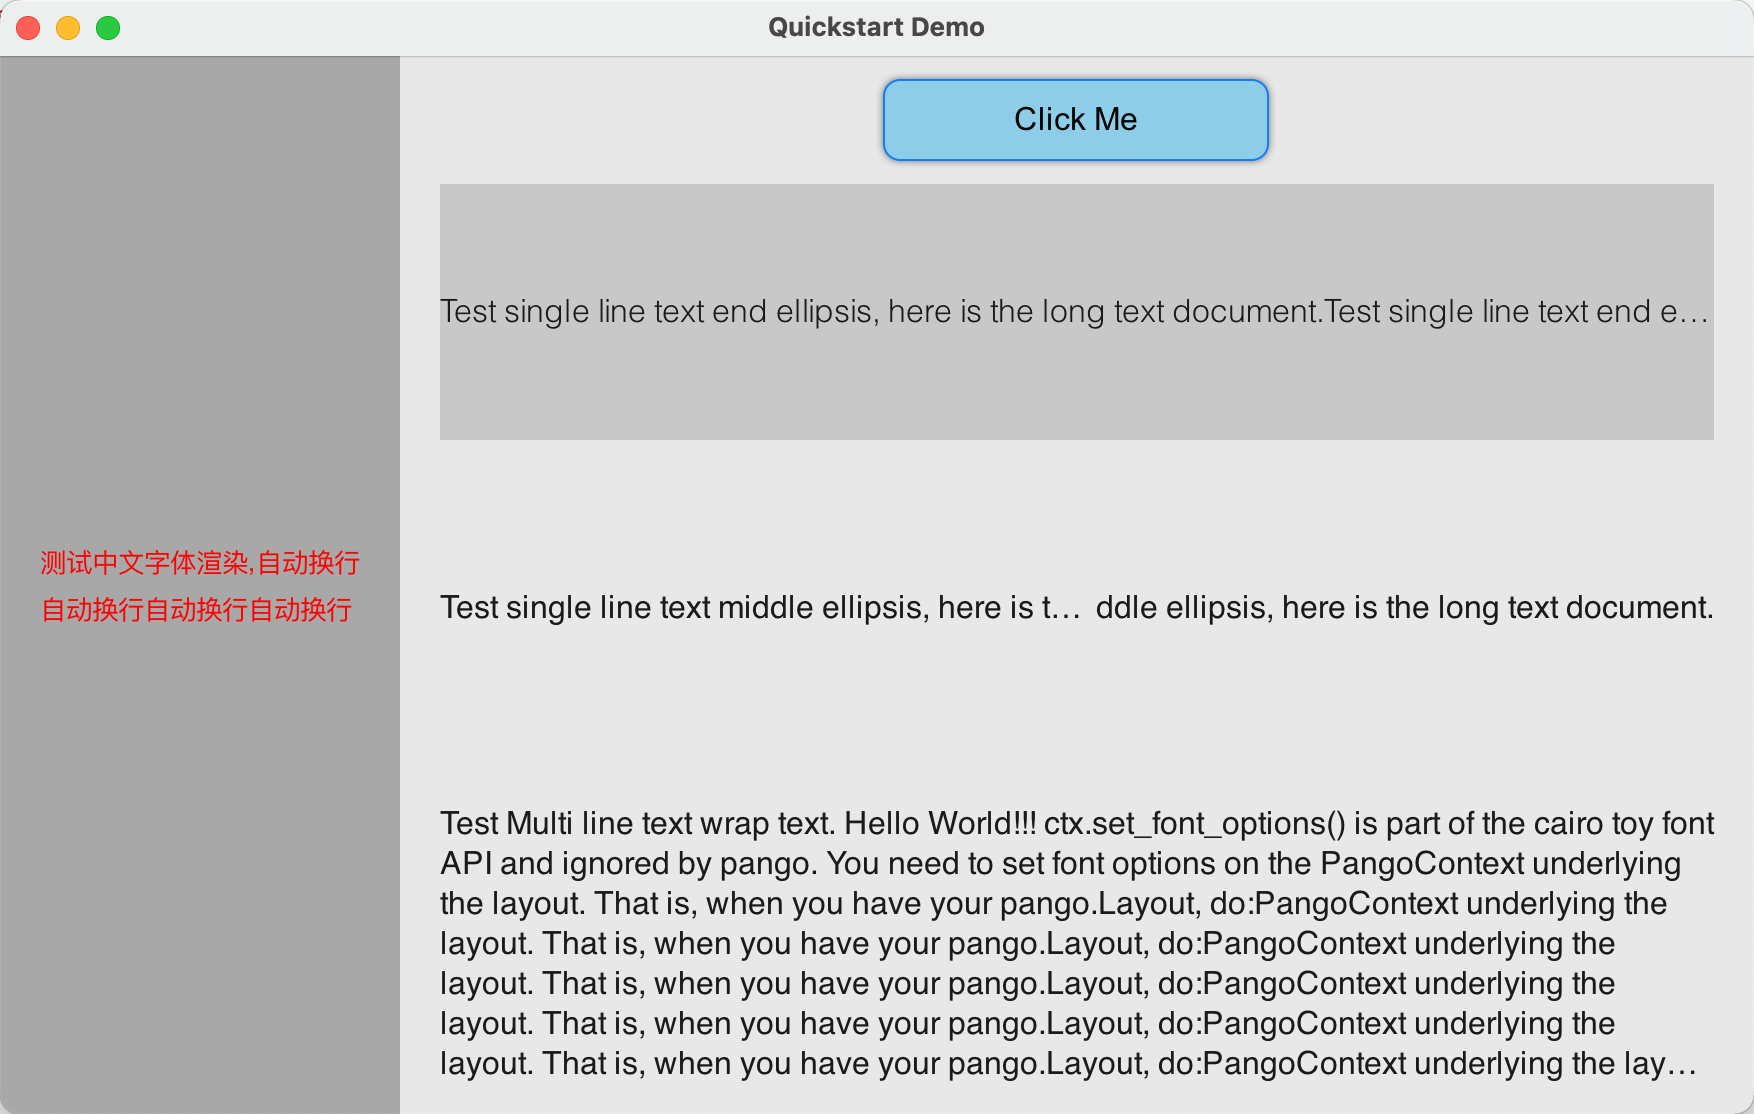
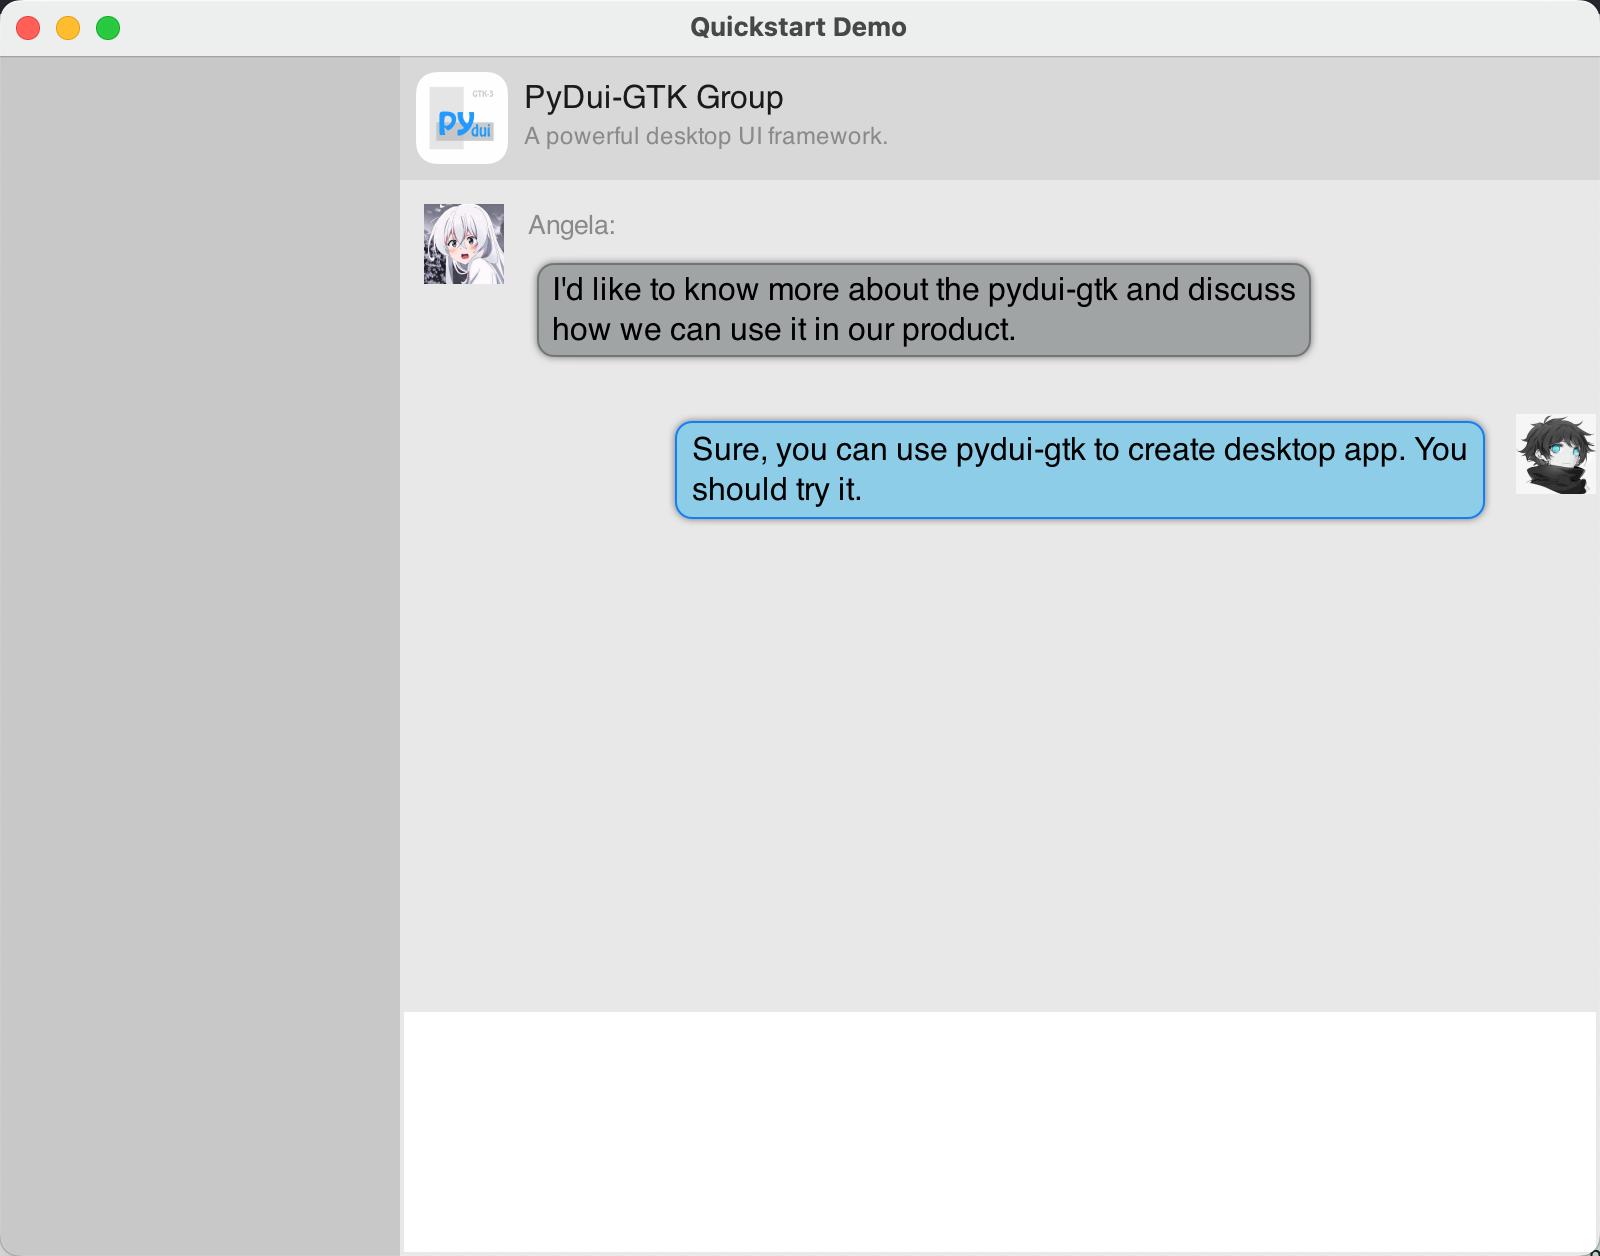
Update demo screenshot

diff --git a/README.md b/README.md
@@ -69,13 +69,11 @@ def get_builder() -> PyDuiBuilder:
 class DemoHandler(PyDuiWindowHandler):
     def on_window_init(self, window: PyDuiWindow):
         print(f"on_window_init")
-        
-        def handle_click(object):
-            print("You clicked!", object)
-            
+        #def handle_click(object):
+        #    print("You clicked!", object)   
         # bind widget event here
-        widget = window.get_widget(widget_id="button")
-        widget.connect("clicked", handle_click)
+        #widget = window.get_widget(widget_id="button")
+        #widget.connect("clicked", handle_click)
 
     def on_window_destroy(self):
         print(f"on_window_destroy")
@@ -98,42 +96,52 @@ XML File
 
 ```xml
 <?xml version="1.0" encoding="utf-8"?>
-<Window size="800,600" title='Quickstart Demo' min_size="400,300">
-    <HLayout bkcolor="#FFE8E8E8">
-        <VLayout bkcolor="#FFA8A8A8" width="200">
-            <Label text="测试中文字体渲染,自动换行自动换行自动换行自动换行" font="Helvetica" fontsize="13" fontcolor="#FFFF0000"
-                margin="20,20,20,20" />
+<Window size="800,600" title='Quickstart Demo' min_size="400,300"
+    default_font="Helvetica" default_fontsize="16">
+    <HLayout bkcolor="#FFFFFFFF">
+        <!-- left panel -->
+        <VLayout bkcolor="#FFC8C8C8" width="200">
         </VLayout>
         <VLayout halign="CENTER">
-            <Button id="button" text="Click Me" margin="8,8,8,8"
-                corner="12,12,12,12" width="200" height="48"
-                bkimage="res/images/common_button_normal.png"
-                bkimage_hover="res/images/common_button_hover.png"
-                bkimage_press="res/images/common_button_press.png"
-                bkimage_disable="res/images/common_button_disable.png"
-            />
-            <Label text="Test single line text end ellipsis, here is the long text document.Test single line text end ellipsis, here is the long text document."
-                font="Helvetica Light"
-                fontsize="16"
-                fontcolor="#FF1A1A1A"
-                bkcolor="#FFC8C8C8"
-                wrap="NONE"
-                margin="20,0,20,0"
-            />
-            <Label text="Test single line text middle ellipsis, here is the long text document.Test single line text middle ellipsis, here is the long text document."
-                font="Helvetica"
-                fontsize="16"
-                fontcolor="#FF1A1A1A"
-                wrap="NONE"
-                ellipsis="MIDDLE"
-                margin="20,20,20,20"
-            />
-            <Label text="Test Multi line text wrap text. Hello World!!! ctx.set_font_options() is part of the cairo toy font API and ignored by...
-                font="SourceCodePro"
-                fontsize="16"
-                fontcolor="#FF1A1A1A"
-                margin="20,20,20,20"
-            />
+            <!-- head -->
+            <HLayout height="62" bkcolor="FFD8D8D8">
+                <Picture width="46" image="res/images/logo.png" margin="8,8,8,8" />
+                <VLayout margin="0,12,0,12">
+                    <Label text="PyDui-GTK Group" halign="START" fontcolor="#FF1A1A1A" />
+                    <Label text="A powerful desktop UI framework." fontsize="12" halign="START" fontcolor="#FF8A8A8A" />
+                </VLayout>
+            </HLayout>
+            <!-- body -->
+            <VLayout bkcolor="#FFE8E8E8">
+
+                <HLayout valign="START" margin="12,12,12,12" autofit="true" fitrule="h" >
+                    <Picture width="40" height="40" image="res/images/avatar-2.jpeg" />
+                    <VLayout halign="START" margin="12,0,122,0" autofit="true" fitrule="h" >
+                        <Label text="Angela:" autofit="true"
+                            fontsize="14" fontcolor="#FF8A8A8A" valign="START" halign="START" />
+                        <Label text="I'd like to know more about the pydui-gtk and discuss how we can use it in our product." margin="0,8,0,0"
+                            autofit="true" autofit_padding="12,8,12,8"
+                            corner="12,12,12,12"
+                            bkimage="res/images/common_button_disable.png"
+                        />
+                    </VLayout>
+                </HLayout>
+
+                <HLayout valign="START" margin="12,12,12,12" autofit="true" fitrule="h">
+                    <Control />
+                    <Label id="12" text="Sure, you can use pydui-gtk to create desktop app. You should try it."
+                        margin="122,0,12,0"
+                        autofit="true" autofit_padding="12,8,12,8"
+                        corner="12,12,12,12"
+                        bkimage="res/images/common_button_normal.png"
+                    />
+                    <Picture width="40" height="40" image="res/images/avatar-1.jpeg" />
+                </HLayout>
+
+                <!-- bottom bar -->
+                <Control />
+                <Edit name="input_edit" bkcolor="#FFFFFFFF" height="120" margin="2,2,2,2" />
+            </VLayout>
         </VLayout>
     </HLayout>
 </Window>
